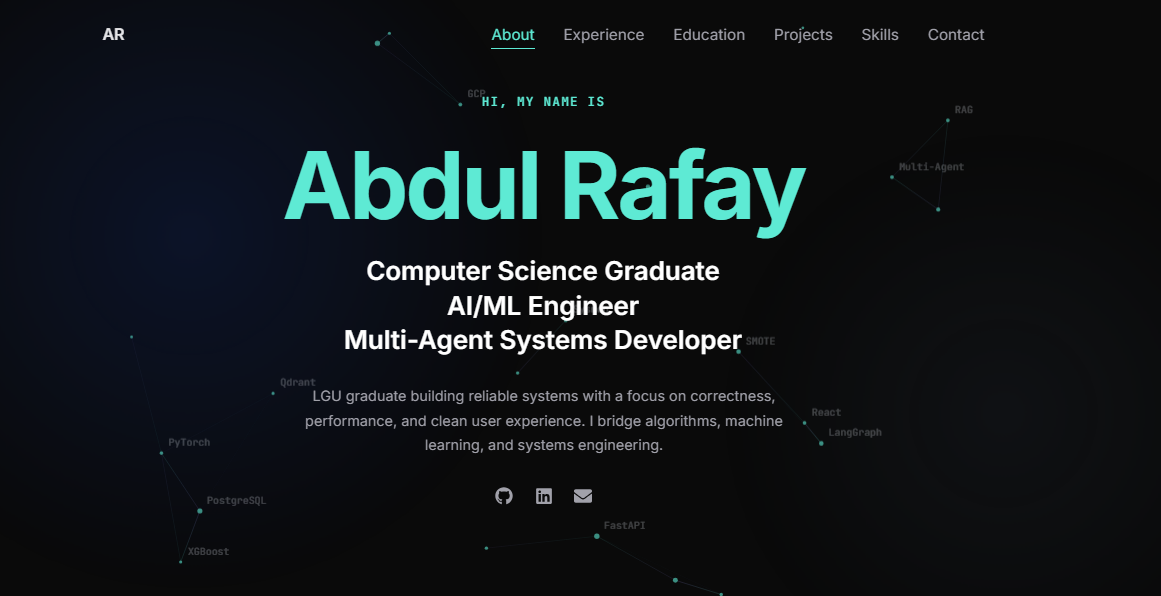
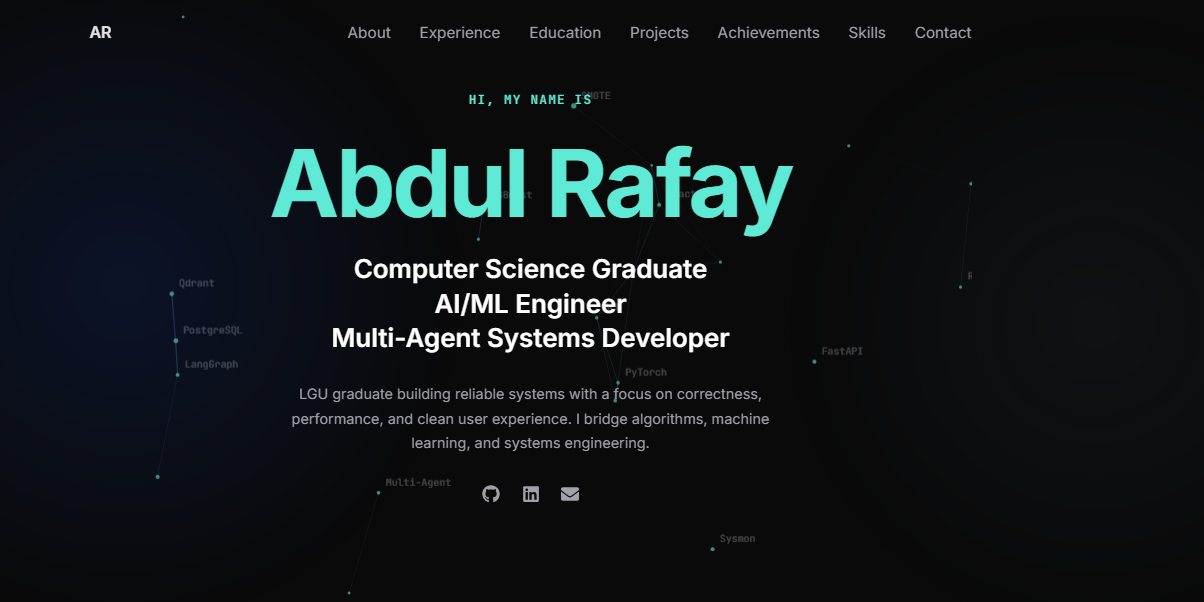
updated project section

diff --git a/src/data/constants.js b/src/data/constants.js
@@ -109,6 +109,13 @@ export const PROJECTS = [
     stack: ["Python", "LangChain", "LangGraph", "Apify", "GCP", "Google Calendar API"],
     github: "https://github.com/abdulrafay7777/AI_Agent_LangGraph",
   },
+  {
+    name: "Real-time Chat API",
+    tag: "Real-time Messaging Backend",
+    desc: "Built real-time messaging backend using WebSockets with JWT authentication and PostgreSQL persistence. Implemented in-memory ConnectionManager handling concurrent WebSocket connections across multiple chat rooms. Added sliding window rate limiter and a browser demo client for live testing.",
+    stack: ["Python", "FastAPI", "WebSockets", "PostgreSQL"],
+    github: "https://github.com/abdulrafay7777/Real-Time-Chat-Connections",
+  },
 ];
 
 export const ACHIEVEMENTS = [
@@ -135,11 +142,11 @@ export const ACHIEVEMENTS = [
 export const SKILLS = [
   {
     label: "Languages",
-    items: ["Python", "JavaScript", "SQL"]
+    items: ["Python", "JavaScript", "HTML/CSS", "SQL"]
   },
   {
     label: "Frameworks & Libraries",
-    items: ["PyTorch", "NumPy", "Pandas", "Matplotlib", "LangChain", "LangGraph", "FastAPI", "React.js"]
+    items: ["FastAPI", "Django", "React.js", "LangChain", "LangGraph", "PyTorch", "NumPy", "Pandas", "Matplotlib", "Scikit-learn"]
   },
   {
     label: "Databases",

diff --git a/src/styles/sections.css b/src/styles/sections.css
@@ -280,8 +280,16 @@
   display: grid;
   grid-template-columns: 200px 1fr;
   gap: 40px;
-  padding: 32px 0;
+  padding: 32px 20px;
   border-top: 1px solid var(--glass-border);
+  transition: all 0.3s cubic-bezier(0.16, 1, 0.3, 1);
+  border-radius: 8px;
+}
+
+.timeline-item:hover {
+  background: rgba(255, 255, 255, 0.02);
+  border-color: rgba(94, 234, 212, 0.3);
+  transform: translateX(10px);
 }
 
 .timeline-item:last-child {
@@ -369,6 +377,8 @@
 .education-item:hover {
   border-color: var(--glass-border-hover);
   background: rgba(255,255,255,0.03);
+  transform: translateY(-4px);
+  box-shadow: 0 10px 30px -10px rgba(94, 234, 212, 0.15);
 }
 
 .education-icon {

diff --git a/src/components/SkillsSection.jsx b/src/components/SkillsSection.jsx
@@ -50,7 +50,14 @@ export function SkillsSection() {
             <h3 className="skill-category-label">{category.label}</h3>
             <div className="skill-tags">
               {category.items.map((item) => (
-                <span key={item} className="skill-tag">{item}</span>
+                <motion.span 
+                  key={item} 
+                  className="skill-tag"
+                  whileHover={{ scale: 1.05 }}
+                  transition={{ type: "spring", stiffness: 300, damping: 20 }}
+                >
+                  {item}
+                </motion.span>
               ))}
             </div>
           </motion.div>

diff --git a/src/styles/components.css b/src/styles/components.css
@@ -58,6 +58,8 @@
 
 .glass-card:hover {
   border-color: var(--glass-border-hover);
+  box-shadow: 0 10px 30px -10px rgba(94, 234, 212, 0.15);
+  transform: translateY(-4px);
 }
 
 /* ========== TAG ========== */
@@ -79,6 +81,7 @@
   border-color: var(--glass-border-hover);
   color: var(--text);
   background: rgba(255,255,255,0.04);
+  transform: translateY(-2px);
 }
 
 /* ========== SECTION LABEL ========== */
